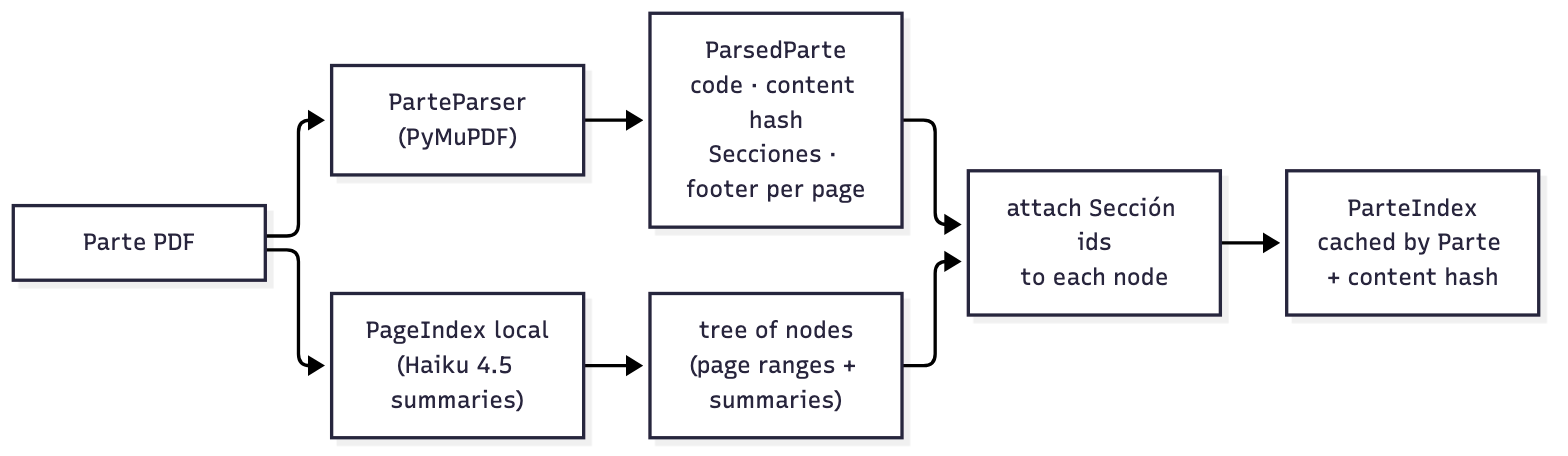
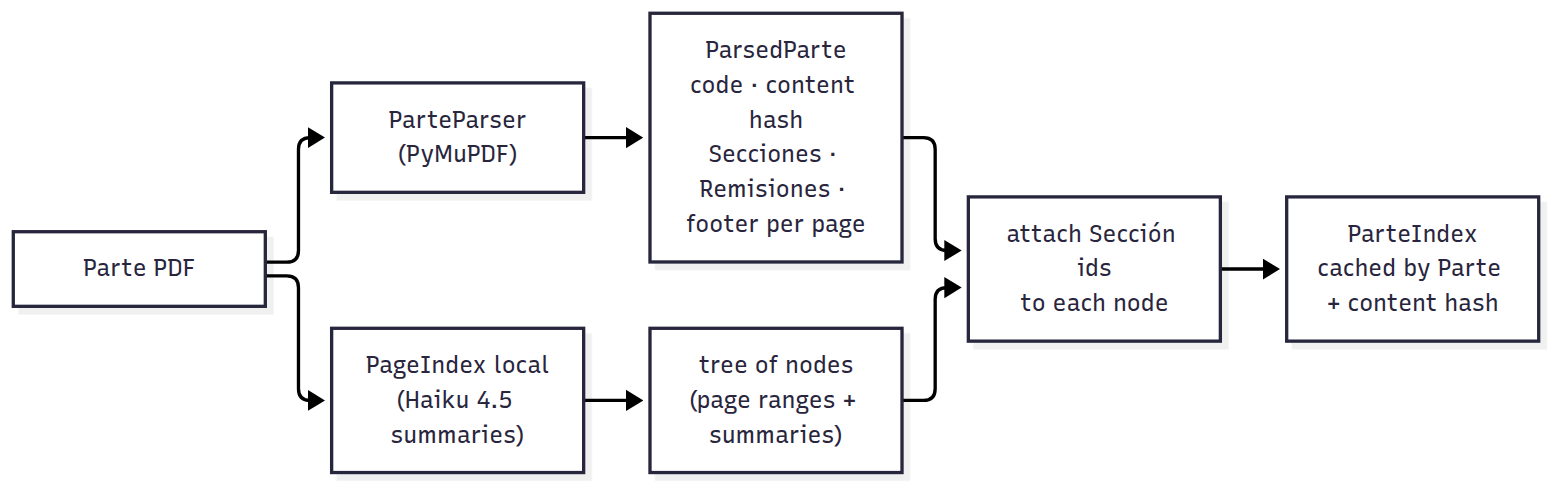
Remisiones: extraction at parse time (#46)
* feat: extract Remisiones at parse time and follow them one hop in tree search

ParteParser attaches Remisiones (to Partes and to Secciones) to each Seccion.
Tree search gets a follow_reference tool that reads the Seccion or Parte a
Remision names, one hop only; followed Secciones join the Retrieval.

* fix: tell tree search when to follow a Remision

* refactor: follow Remisiones in code after tree search, not as an agent tool

The follow_reference tool added agent turns: 61-alumno-vuelo-solo hit
max_turns in the eval. Secciones named by retrieved Secciones' Remisiones
are now added deterministically (one hop, capped at 10). Remisiones to a
whole Parte are left to Parte routing. Drops the dependency on PageIndex
internals.

* chore: ignore .DS_Store

* revert: drop Remisión following, keep extraction

Evals on 8 questions showed tree search already reads the Secciones that
Remisiones name; following them added 1-17 Secciones of input per question
and no needed citation. Some Remisiones in the RAAC text point to the wrong
Sección. Extraction stays for refusals.

---------

diff --git a/src/raac/remisiones.py b/src/raac/remisiones.py
@@ -1,14 +1,18 @@
-"""Remisiones to other Partes found in the text of a Sección.
+"""Remisiones found in the text of a Sección, by deterministic patterns.
 
-Only what the grounding step needs: which Partes a Sección's text refers to, and
-the verbatim line(s) where it does, so a refusal can name the likely Parte and
-cite the Remisión. Remisiones to specific Secciones and following them are #8.
+A Remisión points to another Parte ("conforme a la RAAC 67") or to a Sección
+("Sección 61.520 (a)(1)(v)", "Sección 67.015 del RAAC 67"). ParteParser attaches
+them to each Sección; a refusal names the likely Parte and cites the Remisión's verbatim clause.
 """
 
-import re
-from dataclasses import dataclass
+from __future__ import annotations
 
-from .parser import Seccion
+import re
+from dataclasses import dataclass, field
+from typing import TYPE_CHECKING
+
+if TYPE_CHECKING:
+    from .parser import Seccion
 
 # A Parte code: a number (not the start of a Sección id such as 61.535) or a short
 # letter code such as HL or VLA.
@@ -20,6 +24,14 @@ _REMISION = re.compile(
     _HEAD + rf"({_CODE}(?:\s*(?:,|\by\b|\bo\b|\bó\b)\s*(?:RAAC\s+)?(?:(?i:Partes?)\s+)?{_CODE})*)"
 )
 _CODE_RE = re.compile(_CODE)
+# A Sección id, sometimes broken after the dot ("61. 815"), with optional incisos.
+_SID = r"\d{1,3}\.\s?\d{1,4}\b"
+_INCISOS = r"(?:\s*\([a-zA-Z0-9]{1,4}\))*"
+# "Sección 61.520", "Secciones 61.515 y 61.520", "Sección 61.520 (a)(1)(v) o 61.520 (b)(1) (v)".
+_SECCION_REMISION = re.compile(
+    rf"\b(?i:Secci[oó]n(?:es)?)\s+({_SID}{_INCISOS}(?:\s*(?:,|\by\b|\bo\b|\bó\b)\s*{_SID}{_INCISOS})*)"
+)
+_SID_RE = re.compile(r"(\d{1,3})\.\s?(\d{1,4})\b")
 _NOT_CODES = {"DE", "DEL", "EL", "EN", "LA", "LAS", "LOS"}
 # PDF text breaks lines mid-clause; a clause ends a line with . ; or :, and an inciso
 # marker such as "(ii)" sits on its own line.
@@ -30,9 +42,10 @@ _INCISO = re.compile(r"^\s*\(?[a-z0-9]{1,4}\)\s*$")
 @dataclass(frozen=True)
 class Remision:
     to_parte: str
-    seccion: Seccion
+    seccion: Seccion = field(repr=False, compare=False)  # the Sección whose text holds the Remisión
     page_index: int  # into seccion.pages
     text: str  # the clause holding the Remisión, verbatim from the page text
+    to_seccion: str | None = None  # None for a Remisión to a whole Parte
 
 
 def parte_codes(text: str) -> list[str]:
@@ -56,6 +69,29 @@ def find_remisiones(seccion: Seccion, own_parte: str) -> list[Remision]:
                     continue
                 found[code] = Remision(to_parte=code, seccion=seccion, page_index=i, text=line)
     return list(found.values())
+
+
+def extract_remisiones(seccion: Seccion, own_parte: str) -> list[Remision]:
+    """Every Remisión in `seccion`: to other Partes and to Secciones (own Parte included,
+    never to itself), first occurrence per target, in text order."""
+    found: dict[tuple[str, str | None], tuple[tuple[int, int], Remision]] = {}
+    heading = {seccion.id, *seccion.title.split()}
+
+    def add(key: tuple[str, str | None], at: tuple[int, int], page_text: str, span: tuple[int, int]) -> None:
+        if key not in found:
+            text = _clause(page_text, *span, heading=heading)
+            found[key] = (at, Remision(to_parte=key[0], seccion=seccion, page_index=at[0], text=text, to_seccion=key[1]))
+
+    for i, page in enumerate(seccion.pages):
+        for m in _REMISION.finditer(page.text):
+            for code in _CODE_RE.findall(m.group(1)):
+                if code not in _NOT_CODES and code != own_parte:
+                    add((code, None), (i, m.start()), page.text, m.span())
+        for m in _SECCION_REMISION.finditer(page.text):
+            for parte, n in _SID_RE.findall(m.group(1)):
+                if f"{parte}.{n}" != seccion.id:
+                    add((parte, f"{parte}.{n}"), (i, m.start()), page.text, m.span())
+    return [r for _, r in sorted(found.values(), key=lambda item: item[0])]
 
 
 def _clause(text: str, start: int, end: int, heading: set[str]) -> str:

diff --git a/tests/test_remisiones.py b/tests/test_remisiones.py
@@ -1,0 +1,43 @@
+"""Remisiones extracted by ParteParser."""
+
+from raac.parser import ParsedParte
+
+
+def targets(parte: ParsedParte, seccion_id: str) -> list[tuple[str, str | None]]:
+    return [(r.to_parte, r.to_seccion) for r in parte.seccion(seccion_id).remisiones]
+
+
+def test_61_535_has_a_remision_to_61_520(parte61):
+    [r] = parte61.seccion("61.535").remisiones
+    assert (r.to_parte, r.to_seccion) == ("61", "61.520")
+    assert r.text == (
+        "acredite la experiencia prevista en la Sección 61.520 (a)(1)(v) o 61.520 (b)(1) (v) según co-\nrresponda; y"
+    )
+    assert parte61.seccion("61.535").pages[r.page_index].pdf_page == 67
+
+
+def test_61_405_f_has_a_remision_to_parte_67(parte61):
+    [r] = parte61.seccion("61.405").remisiones
+    assert (r.to_parte, r.to_seccion) == ("67", None)
+    assert r.text == "Poseer una Certificación Médica Aeronáutica conforme a la RAAC 67."
+
+
+def test_remisiones_to_seccion_and_parte_in_text_order(parte61):
+    assert targets(parte61, "61.065") == [("67", "67.015"), ("67", None)]
+    assert targets(parte61, "61.060") == [
+        ("67", None),
+        ("61", "61.140"),
+        ("61", "61.130"),
+        ("61", "61.135"),
+        ("121", None),
+        ("135", None),
+    ]
+
+
+def test_seccion_lists_and_broken_ids(parte61):
+    # "Secciones 61. 815 y 61.825 de este capítulo": the id is broken after the dot.
+    found = {t for s in parte61.secciones for t in targets(parte61, s.id)}
+    assert {("61", "61.815"), ("61", "61.825")} <= found
+    # Never to the own Parte as a whole, never to the Sección itself.
+    assert all(r.to_seccion or r.to_parte != "61" for s in parte61.secciones for r in s.remisiones)
+    assert all(r.to_seccion != s.id for s in parte61.secciones for r in s.remisiones)

diff --git a/src/raac/parser.py b/src/raac/parser.py
@@ -2,7 +2,8 @@
 
 Reads the Parte code from the running header, the Edición/Enmienda, date and
 printed page label from each page footer, and splits the body into Secciones
-(id, title, PDF pages, printed page labels, text per page, text rectangles).
+(id, title, PDF pages, printed page labels, text per page, text rectangles,
+Remisiones).
 Footers of one Parte may disagree; they are kept per page (ADR 0004).
 """
 
@@ -12,6 +13,8 @@ from collections import Counter
 from dataclasses import dataclass, field
 
 import pymupdf
+
+from .remisiones import Remision, extract_remisiones
 
 _HEADER_RE = re.compile(r"^\s*RAAC\s+PARTE\s+(\S+)", re.I)
 # Footers vary by Parte, e.g. "ADMINISTRACIÓN NACIONAL\nVI Edición\nmayo 2026\nDE AVIACIÓN CIVIL\n 10\nEnmienda I"
@@ -66,6 +69,7 @@ class Seccion:
     id: str  # e.g. "61.535"
     title: str
     pages: list[SeccionPage]
+    remisiones: list[Remision] = field(default_factory=list, repr=False, compare=False)
 
     @property
     def pdf_page_start(self) -> int:
@@ -141,6 +145,8 @@ def parse(pdf: bytes) -> ParsedParte:
     secciones = _split_secciones(code, bodies, printed)
     if not secciones:
         raise ParseError(f"Parte {code}: no Secciones found")
+    for s in secciones:
+        s.remisiones = extract_remisiones(s, code)
     return ParsedParte(
         code=code,
         edicion=edicion,
